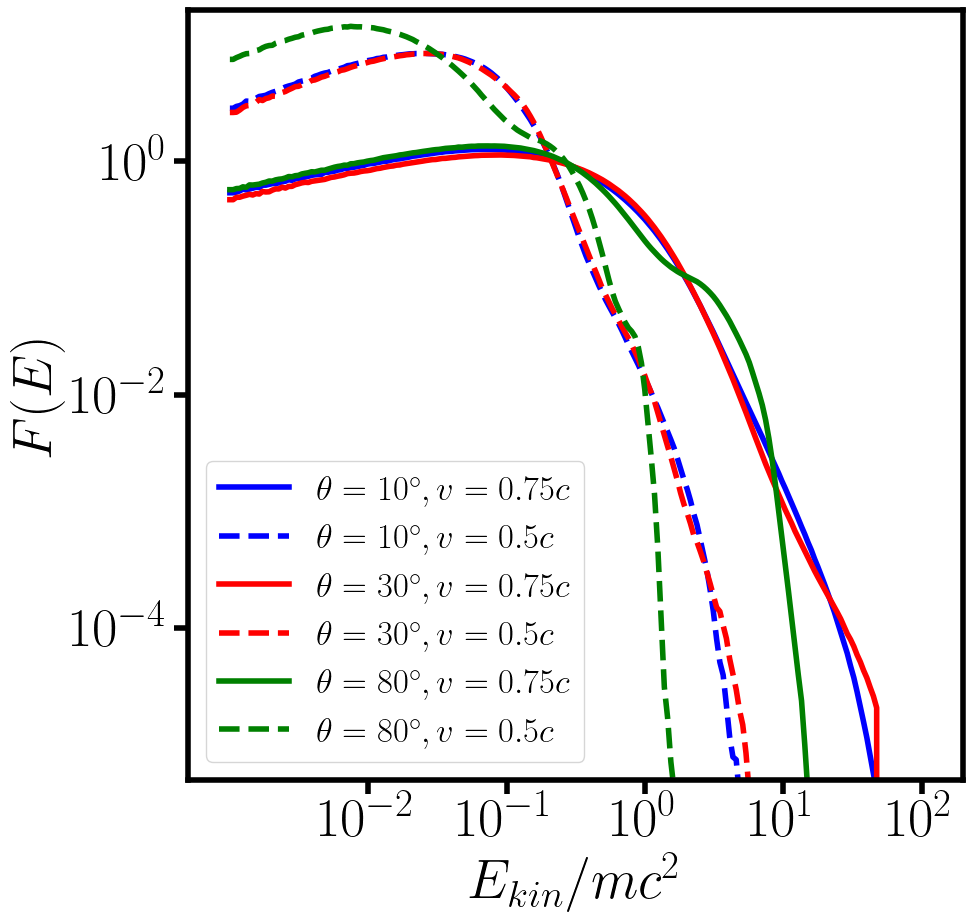
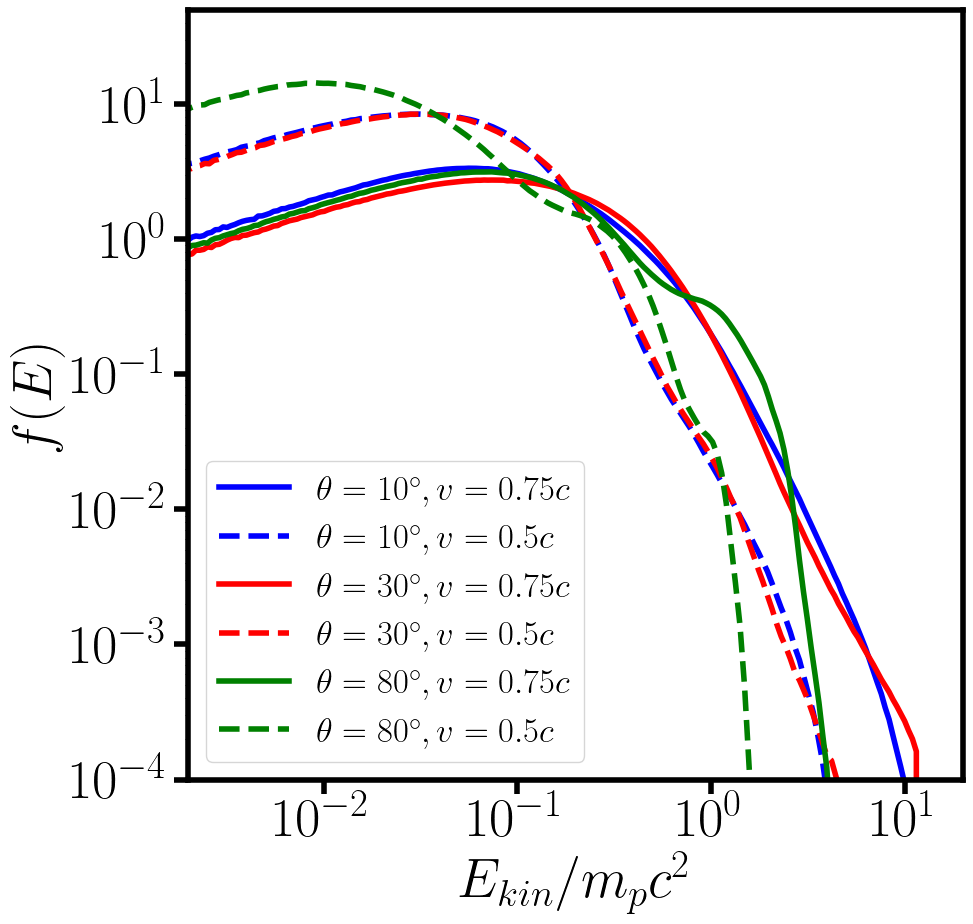
fz

diff --git a/pyFAINA/plot_distributions.py b/pyFAINA/plot_distributions.py
@@ -3,23 +3,23 @@ from pylab import *
 import numpy as np
 
 def plot_distributions():
-    Efile0 = open('../examples_data/gamma1.5_theta0-90/Ee1.dat','r').readline().split()
-    Ffile0= open('../examples_data/gamma1.5_theta0-90/Fs1.dat','r').readline().split()
+    Efile0 = open('../examples_data/gamma1.5_theta0-90_protons/Ee1.dat','r').readline().split()
+    Ffile0= open('../examples_data/gamma1.5_theta0-90_protons/Fs1.dat','r').readline().split()
 
-    Efile1 = open('../examples_data/gamma1.5_theta0-90/Ee3.dat','r').readline().split()
-    Ffile1 = open('../examples_data/gamma1.5_theta0-90/Fs3.dat','r').readline().split()
+    Efile1 = open('../examples_data/gamma1.5_theta0-90_protons/Ee3.dat','r').readline().split()
+    Ffile1 = open('../examples_data/gamma1.5_theta0-90_protons/Fs3.dat','r').readline().split()
 
-    Efile2 = open('../examples_data/gamma1.5_theta0-90/Ee8.dat','r').readline().split()
-    Ffile2 = open('../examples_data/gamma1.5_theta0-90/Fs8.dat','r').readline().split()
+    Efile2 = open('../examples_data/gamma1.5_theta0-90_protons/Ee8.dat','r').readline().split()
+    Ffile2 = open('../examples_data/gamma1.5_theta0-90_protons/Fs8.dat','r').readline().split()
 
-    Efile0a = open('../examples_data/gamma0.5_theta0-90/Ee1.dat', 'r').readline().split()
-    Ffile0a = open('../examples_data/gamma0.5_theta0-90/Fs1.dat', 'r').readline().split()
+    Efile0a = open('../examples_data/gamma0.5_theta0-90_protons/Ee1.dat', 'r').readline().split()
+    Ffile0a = open('../examples_data/gamma0.5_theta0-90_protons/Fs1.dat', 'r').readline().split()
 
-    Efile1a = open('../examples_data/gamma0.5_theta0-90/Ee3.dat', 'r').readline().split()
-    Ffile1a = open('../examples_data/gamma0.5_theta0-90/Fs3.dat', 'r').readline().split()
+    Efile1a = open('../examples_data/gamma0.5_theta0-90_protons/Ee3.dat', 'r').readline().split()
+    Ffile1a = open('../examples_data/gamma0.5_theta0-90_protons/Fs3.dat', 'r').readline().split()
 
-    Efile2a = open('../examples_data/gamma0.5_theta0-90/Ee8.dat', 'r').readline().split()
-    Ffile2a = open('../examples_data/gamma0.5_theta0-90/Fs8.dat', 'r').readline().split()
+    Efile2a = open('../examples_data/gamma0.5_theta0-90_protons/Ee8.dat', 'r').readline().split()
+    Ffile2a = open('../examples_data/gamma0.5_theta0-90_protons/Fs8.dat', 'r').readline().split()
 
     N = len(Efile0)
 
@@ -76,8 +76,8 @@ def plot_distributions():
     #plt.subplots_adjust(bottom=0.12)
     #ax.tick_params(axis='both', which='major', labelsize=10)
     #ax.tick_params(axis='both', which='minor', labelsize=8)
-    ax.set_xlabel('$E_{kin}/m c^2$', fontsize=40,fontweight='bold')
-    ax.set_ylabel('$F(E)$', fontsize=40,fontweight='bold')
+    ax.set_xlabel('$E_{kin}/m_p c^2$', fontsize=40,fontweight='bold')
+    ax.set_ylabel('$f(E)$', fontsize=40,fontweight='bold')
     ax.set_yscale("log")
     ax.set_xscale("log")
     #extraticks=[1,100]
@@ -95,8 +95,8 @@ def plot_distributions():
     ax.legend([r'$\theta = 10^{\circ}, v = 0.75c$',r'$\theta = 10^{\circ}, v = 0.5c$',
                r'$\theta = 30^{\circ}, v = 0.75c$',r'$\theta = 30^{\circ}, v = 0.5c$',
                r'$\theta = 80^{\circ}, v = 0.75c$',r'$\theta = 80^{\circ}, v = 0.5c$'], fontsize="25")
-    ax.set_xlim(xmin=0.5, xmax=2E3)
-    #ax.set_ylim(ymin=0.5E-5, ymax=2E1)
-    ax.set_xbound(lower=0.5, upper=2E3)
+    ax.set_xlim(xmin=0.002, xmax=2E1)
+    ax.set_ylim(ymin=1E-4, ymax=50)
+    #ax.set_xbound(lower=0.5, upper=2E3)
     #plt.show()
-    plt.savefig('electrons.png', bbox_inches='tight')
+    plt.savefig('protons.png', bbox_inches='tight')

diff --git a/pyFAINA/plot_distributions2.py b/pyFAINA/plot_distributions2.py
@@ -61,7 +61,7 @@ def plot_distributions2():
     #ax.tick_params(axis='both', which='major', labelsize=10)
     #ax.tick_params(axis='both', which='minor', labelsize=8)
     ax.set_xlabel('$E_{kin}/m_p c^2$', fontsize=40,fontweight='bold')
-    ax.set_ylabel('$F(E) E^2$', fontsize=40,fontweight='bold')
+    ax.set_ylabel('$f(E) E^2$', fontsize=40,fontweight='bold')
     ax.set_yscale("log")
     ax.set_xscale("log")
     #extraticks=[1,100]

diff --git a/pyFAINA/main.py b/pyFAINA/main.py
@@ -9,6 +9,7 @@ from plot_radiation import plot_radiation
 from plot_radiation2 import plot_radiation2
 
 if __name__ == '__main__':
+    plot_distributions()
     plot_distributions2()
     #plot_radiation()
     #plot_long_radiation()
